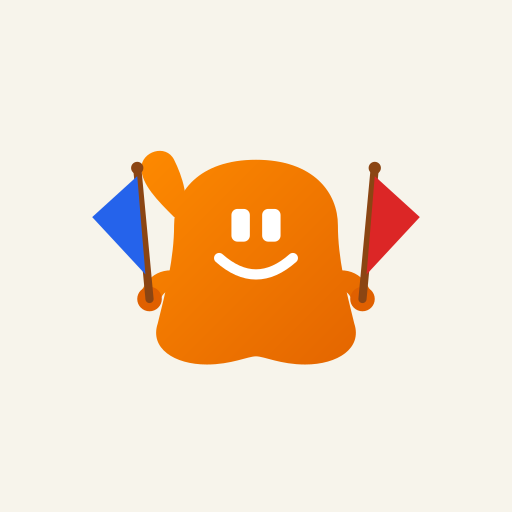
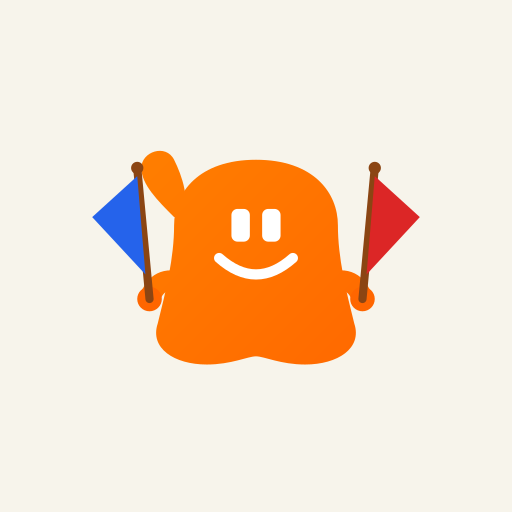
fix(dashboard): the mascot keeps Orange Guy's orange
The masthead mark and the install icons are a drawing of the Electoral
Commission's Orange Guy, the character that asks New Zealand to enrol,
but the Newsprint pass repainted the masthead body in the masthead red
(#C8503E → #9E2B1C) and the icons still shaded down to a burnt #E06000.
At tab size the character read as red — as the newspaper's own rule,
rather than as the mascot it is quoting.

Both drawings now shade #FF8000 → #FF6600, centred on Orange Guy's flat
#FF7300 (sampled from the character's artwork and the elections.nz
palette) with both stops at full lightness, so the body gains form
without darkening towards red. The shipped 512px icon measures #FF7300
on average.

- design.md § Voice records the character as the one hue outside the
  token set, and as artwork rather than an accent: it never sets type,
  state, chips or leader markers, so "red is the only accent" holds.
- Logo.test.tsx and app-icons.test.ts pin the pair, so the masthead and
  the files a phone installs cannot drift apart again.
- generate-icons.mjs prefers rsvg-convert after Inkscape: ImageMagick's
  own SVG renderer silently drops fill="url(#og)" and painted the
  mascot black.

Changed region(s): [[0.5938, 0.5625, 0.75, 0.7188], [0.25, 0.5625, 0.3125, 0.625]]

diff --git a/packages/dashboard/src/components/Logo.test.tsx b/packages/dashboard/src/components/Logo.test.tsx
@@ -1,0 +1,47 @@
+// @vitest-environment jsdom
+import { describe, expect, test } from 'vitest';
+import { render } from '@testing-library/react';
+import Logo from './Logo.js';
+
+/**
+ * The masthead mark is the Electoral Commission's Orange Guy — the character it
+ * uses to promote enrolment — so it has to stay the character's orange. The
+ * Newsprint redesign turned the body the masthead red (`#C8503E → #9E2B1C`) and
+ * the character stopped reading as the thing it quotes; `design.md` § Voice
+ * records the exception, and this pins it so the next restyle does not repeat it.
+ *
+ * `lib/app-icons.test.ts` pins the same pair in the install icons, which are
+ * generated separately by `scripts/generate-icons.mjs`.
+ */
+const MASCOT_ORANGE = ['#ff8000', '#ff6600'];
+
+/** The body's gradient stops, in document order. */
+function bodyStops(container: HTMLElement) {
+  const gradient = container.querySelector('#ogBody');
+  if (!gradient) throw new Error('Logo has no #ogBody gradient');
+  return Array.from(gradient.querySelectorAll('stop')).map((stop) =>
+    stop.getAttribute('stop-color')?.toLowerCase()
+  );
+}
+
+describe('Logo', () => {
+  test('the body is the mascot orange, not the masthead red', () => {
+    const { container } = render(<Logo />);
+    expect(bodyStops(container)).toEqual(MASCOT_ORANGE);
+  });
+
+  test('the body shades without darkening towards red', () => {
+    // Both stops sit at the same lightness, so the gradient gives the body form
+    // rather than a burnt bottom — a dark second stop is what read as red.
+    const [light, deep] = bodyStops(render(<Logo />).container) as string[];
+    const lightness = (hex: string) =>
+      Math.max(
+        parseInt(hex.slice(1, 3), 16),
+        parseInt(hex.slice(3, 5), 16),
+        parseInt(hex.slice(5, 7), 16)
+      ) / 255;
+    expect(lightness(light)).toBe(1);
+    expect(lightness(deep)).toBe(1);
+    expect(parseInt(deep.slice(5, 7), 16)).toBe(0); // no blue: a pure orange
+  });
+});

diff --git a/packages/dashboard/src/components/Logo.tsx b/packages/dashboard/src/components/Logo.tsx
@@ -1,3 +1,17 @@
+/**
+ * The masthead mark: the mascot and two ballot flags.
+ *
+ * The character keeps its own orange — the Electoral Commission's Orange Guy,
+ * the mascot that asks New Zealand to enrol — and not the masthead red. It was
+ * `#FF8C00 → #E06000` and the Newsprint pass turned it `#C8503E → #9E2B1C`, which
+ * is the colour of the masthead rule; the character stopped looking like the
+ * thing it is quoting. `#FF8000 → #FF6600` is centred on Orange Guy's flat
+ * `#FF7300`, and both stops sit at the same lightness so the body gets form
+ * without darkening towards red. `design.md` § Voice records the exception.
+ *
+ * `scripts/generate-icons.mjs` carries the same two stops for the install
+ * icons; `lib/app-icons.test.ts` fails if the shipped ones drift.
+ */
 export default function Logo({ className }: { className?: string }) {
   return (
     <svg
@@ -16,8 +30,8 @@ export default function Logo({ className }: { className?: string }) {
           y2="140"
           gradientUnits="userSpaceOnUse"
         >
-          <stop offset="0%" stopColor="#C8503E" />
-          <stop offset="100%" stopColor="#9E2B1C" />
+          <stop offset="0%" stopColor="#FF8000" />
+          <stop offset="100%" stopColor="#FF6600" />
         </linearGradient>
         <linearGradient id="ogHighlight" x1="0" y1="0" x2="0" y2="1">
           <stop offset="0%" stopColor="rgba(255,255,255,0.25)" />
@@ -122,8 +136,8 @@ export default function Logo({ className }: { className?: string }) {
           strokeLinecap="round"
         />
 
-        <circle cx="8" cy="76" r="5" fill="#9E2B1C" />
-        <circle cx="112" cy="76" r="5" fill="#9E2B1C" />
+        <circle cx="8" cy="76" r="5" fill="#FF6600" />
+        <circle cx="112" cy="76" r="5" fill="#FF6600" />
 
         <line
           x1="8"

diff --git a/packages/dashboard/src/lib/app-icons.test.ts b/packages/dashboard/src/lib/app-icons.test.ts
@@ -143,4 +143,17 @@ describe('app icons', () => {
       manifest.background_color.toLowerCase()
     );
   });
+
+  test('the mascot is Orange Guy orange, not the masthead red', () => {
+    // The artwork is a quote of the Electoral Commission's enrolment mascot, so
+    // it is drawn in that character's orange rather than in the dashboard's
+    // masthead accent. The body used to shade `#FF8C00 → #E06000`, whose dark end
+    // read as red at tab size; `Logo.test.tsx` pins the masthead mark to the same
+    // pair, and these are the shipped files a phone actually installs.
+    const stops = Array.from(
+      faviconSvg.matchAll(/<stop[^>]*stop-color="(#[0-9a-fA-F]{6})"/g),
+      (match) => match[1].toLowerCase()
+    );
+    expect(stops).toEqual(['#ff8000', '#ff6600']);
+  });
 });

diff --git a/AGENTS.md b/AGENTS.md
@@ -95,7 +95,7 @@ npm run fmt           # prettier --write .
 - The margin-of-error model is gone, not deprecated: `packages/core/src/reducers.ts` no longer computes it, the socket payload and `/history/*` no longer carry it, and `scrape_snapshots`' `margin_of_error`/`predicted_winner`/`is_predicted` columns were dropped in migration `0002`. When a qualitative read is wanted, derive it from `SeatChance` (`CALL_THRESHOLD` 0.9 in `packages/core/src/seat-probability.ts`; there is deliberately no second band); do not reintroduce a sampling ratio.
 - `packages/dashboard/public/boundaries/<year>/{general,maori}-electorates.geojson` — electorate boundary geometry, one directory per election cycle, plus a generated `index.json` manifest of electorate names per year. `packages/dashboard/src/lib/electorates.ts` holds the name normalisation and year-selection logic; `ElectorateMap.tsx` consumes both.
 - `scripts/fetch-electorate-boundaries.mjs` — regenerates the boundary files from Stats NZ's public ArcGIS feature services (no API key) and rebuilds the manifest. Run it when a cycle's boundaries change.
-- `scripts/generate-icons.mjs` — regenerates the install icons from one square canvas (see the design-system note above). Needs Inkscape or ImageMagick; it refuses to write a clipped artwork box or an undeclared size.
+- `scripts/generate-icons.mjs` — regenerates the install icons from one square canvas (see the design-system note above). Needs ImageMagick plus Inkscape or `rsvg-convert` to rasterise (ImageMagick's own SVG renderer silently drops the body's `fill="url(#og)"` and paints the mascot black); it refuses to write a clipped artwork box or an undeclared size.
 
 ## Architecture notes that aren't obvious from filenames
 

diff --git a/design.md b/design.md
@@ -54,6 +54,14 @@ to it. Amend intentionally — the file is the rule.
   off; radius is 0. A 5% fractal-noise grain over the page says "paper".
 - **Red is the only accent** — reserved for LIVE state, cut lines, leader
   changes, chips, focus rings, and the masthead. Everything else is ink on paper.
+- **The character is the one exception.** The mascot — masthead mark and install
+  icons alike — is drawn in the Electoral Commission's Orange Guy orange, the
+  colour of the enrolment mascot it quotes: centred on `#FF7300`, shaded
+  `#FF8000 → #FF6600` with both stops at full lightness. It went masthead red
+  (`#C8503E → #9E2B1C`) once and stopped reading as the character. It stays
+  artwork: the mascot never sets type, state, chips or leader markers, so the
+  accent rule above is untouched. `components/Logo.test.tsx` and
+  `lib/app-icons.test.ts` pin the pair.
 - **Data is set in mono, labels in Inter, prose in Crimson Pro, display in
   Playfair.** Tables rule-based, figures tabular. Party colours are data
   semantics and stay untouched (National #00529F, Labour #D82A20, Green

diff --git a/README.md b/README.md
@@ -141,7 +141,7 @@ the maskable variant inside Android's 80% safe circle:
 
 ```bash
 # Rewrites favicon.svg, favicon.ico, the manifest PNGs and apple-touch-icon.png
-# (needs Inkscape or ImageMagick on PATH)
+# (needs ImageMagick, plus Inkscape or rsvg-convert on PATH)
 node scripts/generate-icons.mjs
 ```
 
